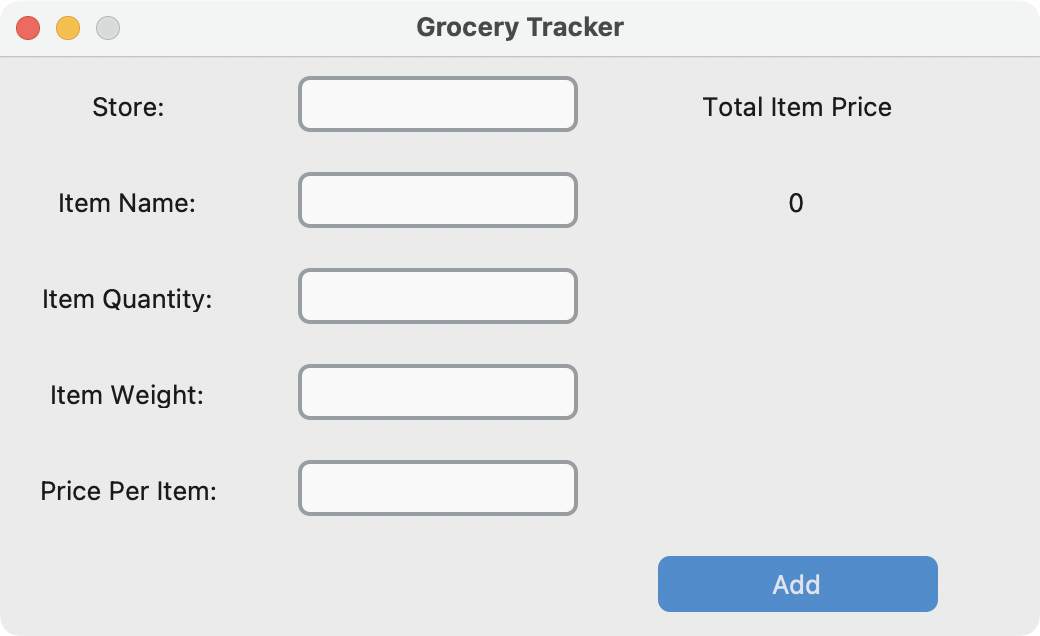
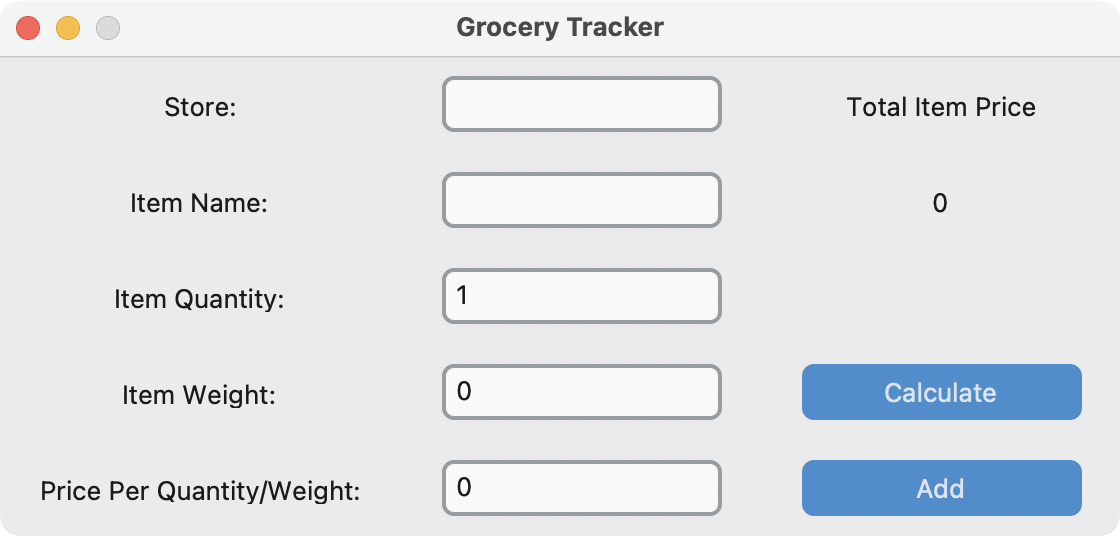
Add ability to calculate the total item price
- Add "calculate" button to the UI
- Add "calculate_total_item_price" function
- Prefill values in the numeric fields of the UI
- Update position of the "Add" button on the UI
- Change variable names with "price per item" to
  "price per quantity/weight" to reflect usage of the input fields in the
  total price calculation
- Update window size to accommodate buttons and text label updates
- Update screenshot of the UI
- Remove ability to increment the placeholder text by 10

diff --git a/app.py b/app.py
@@ -10,7 +10,7 @@ class GroceryTracker:
     def __init__(self) -> None:
         self.window: ctk.CTk = ctk.CTk()
         self.window.title('Grocery Tracker')
-        self.window.geometry('520x290')
+        self.window.geometry('560x240')
         self.window.resizable(False, False)
         self.padding: dict = {'padx': 20, 'pady': 10}
         self.calculation_placeholder: ctk.StringVar = ctk.StringVar()
@@ -35,6 +35,7 @@ class GroceryTracker:
         self.item_quantity_label.grid(row=2, column=0, **self.padding)
         self.item_quantity_entry: ctk.CTkEntry = ctk.CTkEntry(self.window)
         self.item_quantity_entry.grid(row=2, column=1, **self.padding)
+        self.item_quantity_entry.insert(0, '1')
 
         self.item_weight_label: ctk.CTkLabel = ctk.CTkLabel(
             self.window, text='Item Weight:'
@@ -42,13 +43,15 @@ class GroceryTracker:
         self.item_weight_label.grid(row=3, column=0, **self.padding)
         self.item_weight_entry: ctk.CTkEntry = ctk.CTkEntry(self.window)
         self.item_weight_entry.grid(row=3, column=1, **self.padding)
+        self.item_weight_entry.insert(0, '0')
 
-        self.price_per_item_label: ctk.CTkLabel = ctk.CTkLabel(
-            self.window, text='Price Per Item:'
+        self.price_per_qw_label: ctk.CTkLabel = ctk.CTkLabel(
+            self.window, text='Price Per Quantity/Weight:'
         )
-        self.price_per_item_label.grid(row=4, column=0, **self.padding)
-        self.price_per_item_entry: ctk.CTkEntry = ctk.CTkEntry(self.window)
-        self.price_per_item_entry.grid(row=4, column=1, **self.padding)
+        self.price_per_qw_label.grid(row=4, column=0, **self.padding)
+        self.price_per_qw_entry: ctk.CTkEntry = ctk.CTkEntry(self.window)
+        self.price_per_qw_entry.grid(row=4, column=1, **self.padding)
+        self.price_per_qw_entry.insert(0, '0')
 
         self.total_item_price_label: ctk.CTkLabel = ctk.CTkLabel(
             self.window, text='Total Item Price'
@@ -62,15 +65,40 @@ class GroceryTracker:
         self.total_item_price_calculation_label.grid_anchor('e')
 
         self.add_button = ctk.CTkButton(
+            self.window, text='Calculate', command=self.calculate_total_item_price
+        )
+        self.add_button.grid(row=3, column=2, **self.padding)
+
+        self.add_button = ctk.CTkButton(
             self.window, text='Add', command=self.on_add_button_click
         )
-        self.add_button.grid(row=5, column=2, **self.padding)
+        self.add_button.grid(row=4, column=2, **self.padding)
+
+    def calculate_total_item_price(self) -> None:
+        """
+        This function calculates the total price of the item depending on the
+        quantity or the weight of the item.
+        """
+
+        total_item_price: float = 0
+
+        item_quantity_input: float = float(self.item_quantity_entry.get())
+        item_weight_input: float = float(self.item_weight_entry.get())
+        price_per_qw_input: float = float(self.price_per_qw_entry.get())
+
+        # if item_weight_input == 0 and item_quantity_input == 1:
+        #     total_item_price = price_per_qw_input
+        if item_weight_input == 0:
+            total_item_price = item_quantity_input * price_per_qw_input
+        elif item_quantity_input == 1:
+            total_item_price = item_weight_input * price_per_qw_input
+
+        self.calculation_placeholder.set(total_item_price)
 
     def on_add_button_click(self) -> None:
         """This function will perform an action upon being clicked."""
 
-        self.calculation_placeholder_value += 10
-        self.calculation_placeholder.set(self.calculation_placeholder_value)
+        raise NotImplementedError
 
     def run(self) -> None:
         """This function shows the application window."""
